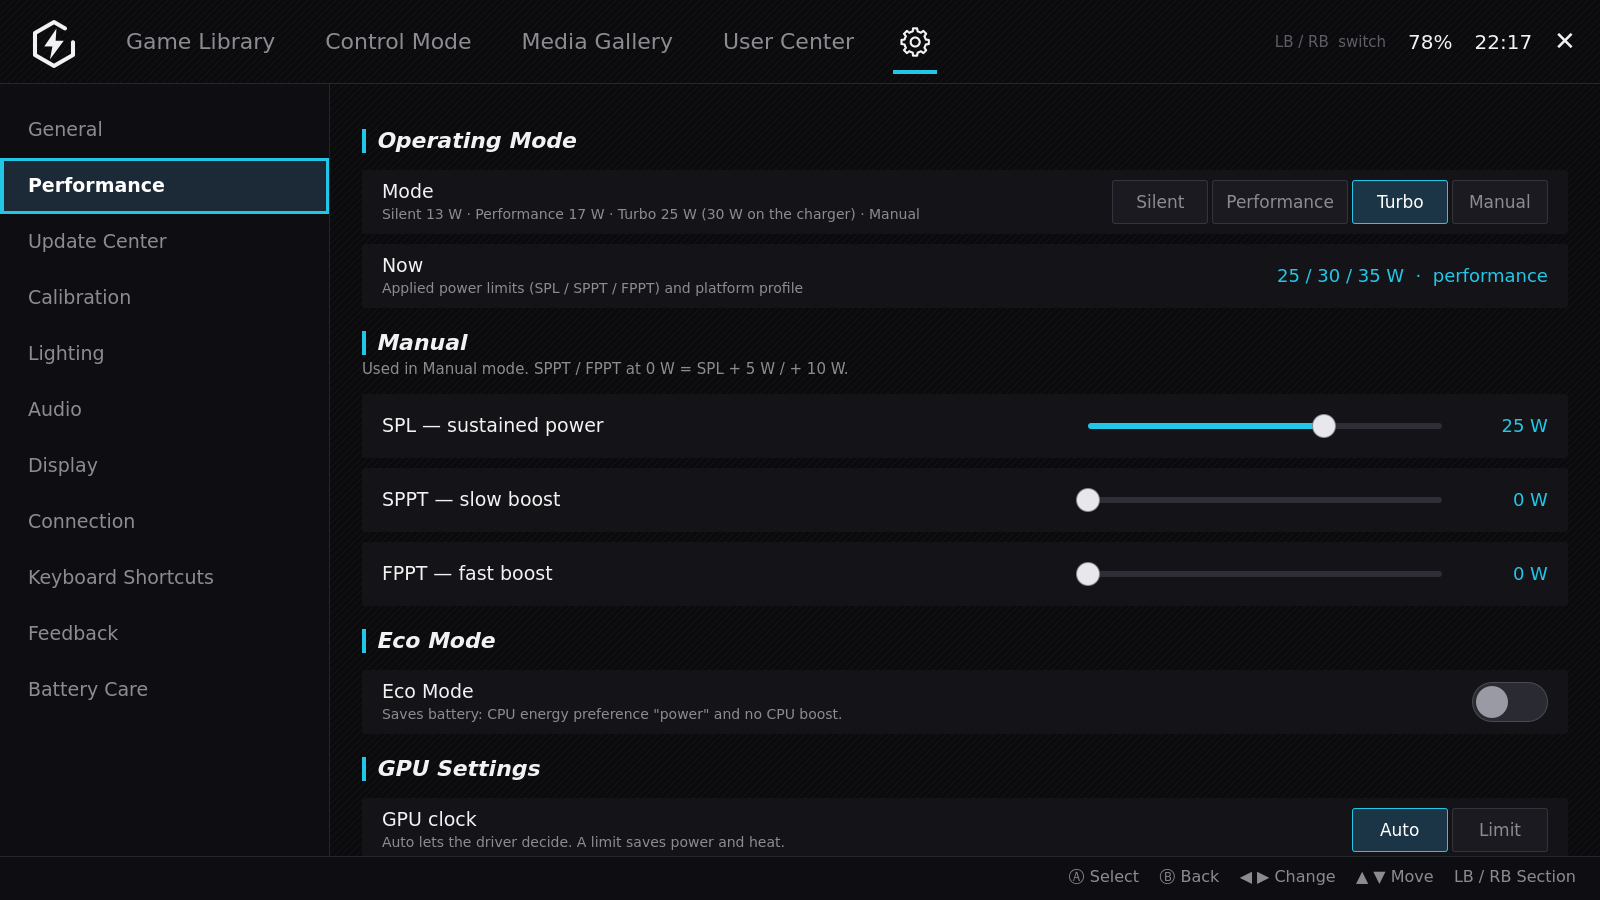
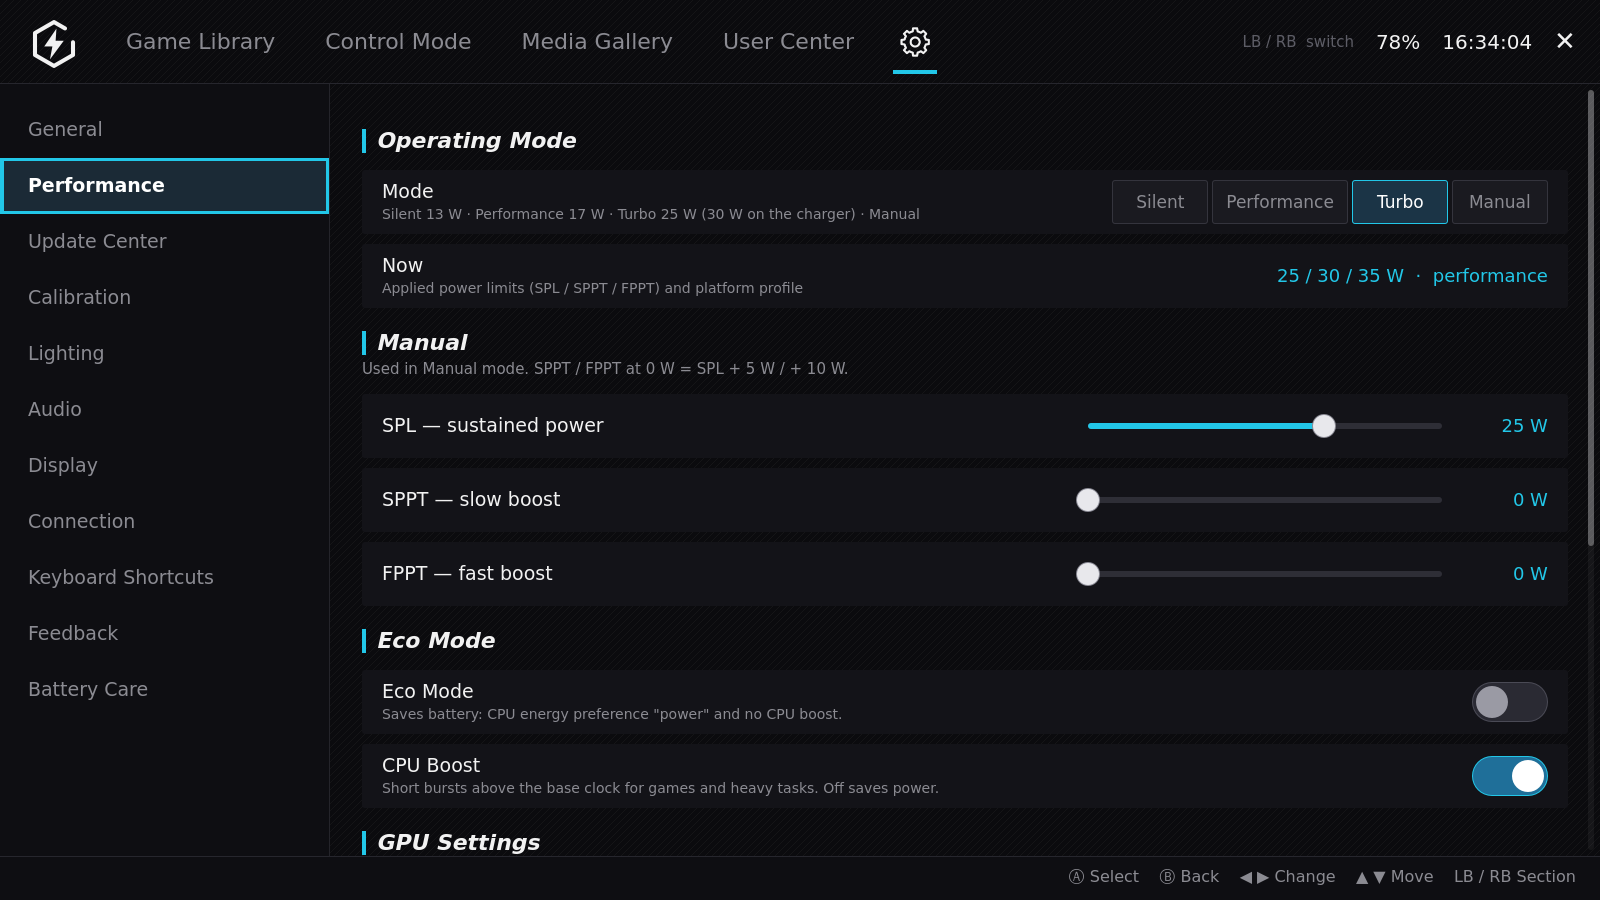
1.6.1: GPU memory on Linux, key map screenshots, Linux fixes (#18)
* Key map screenshots; Memory Assigned to GPU on Linux (asus-armoury apu_mem)

- README: Control Mode key map screenshots (front, top, back) in test mode,
  made by tools/screenshots/capture.sh with scripted pad input (the fake
  daemon now passes on press / release / axes events). They replace the
  old key list screenshot.
- Linux: Memory Assigned to GPU reads and writes the BIOS UMA size through
  asus-armoury's apu_mem firmware attribute (GB, 0 = Auto), applied at the
  next boot, like on Windows.

Claude-Session: https://claude.ai/code/session_01CU8GXFKPb2ZWBnBQyUYxJT

* 1.6.1: Linux fixes (charger, board name, Steam paths), docs

- Charging state from any mains power supply, not only AC0
- Device Info board name on Linux (/sys/class/dmi/id/board_name)
- Game Library: Steam in ~/.steam/steam and the Flatpak
- README: Windows feature notes up to date with 1.6; CHANGELOG 1.6.1

Claude-Session: https://claude.ai/code/session_01CU8GXFKPb2ZWBnBQyUYxJT

---------

diff --git a/qml/app/SetPerformance.qml b/qml/app/SetPerformance.qml
@@ -45,7 +45,8 @@ CcPage {
                    onToggled: (v) => device.setValue("cpuBoost", v) } }
 
     CcSection { title: qsTr("GPU Settings") }
-    // Memory Assigned to GPU (UMA frame buffer): Windows only, the daemon reports it when the firmware has it
+    // Memory Assigned to GPU (UMA frame buffer): the daemon reports it when the firmware has it
+    // (Windows: ASUS WMI; Linux: asus-armoury apu_mem)
     readonly property bool gpuMemShown: (device.rev, !!device.value("gpuMemSupported"))
     function gpuMemOptions() {
         const mbs = device.value("gpuMemOptions") || []
@@ -59,7 +60,8 @@ CcPage {
                    current: (device.rev, device.value("gpuMemory"))
                    onPicked: (v) => device.setValue("gpuMemory", v) } }
     CcRow { title: qsTr("Restart required"); visible: page.gpuMemShown && (device.rev, !!device.value("gpuMemPending"))
-            description: qsTr("Restart Windows to apply the new GPU memory size.") }
+            description: Qt.platform.os === "windows" ? qsTr("Restart Windows to apply the new GPU memory size.")
+                                                      : qsTr("Restart the Ally to apply the new GPU memory size.") }
 
     CcRow { visible: !desktop.windows; title: qsTr("GPU clock"); description: qsTr("Auto lets the driver decide. A limit saves power and heat.")
         CcChoice { enabledChoice: device.connected

diff --git a/daemon/Hardware.cpp b/daemon/Hardware.cpp
@@ -5,8 +5,10 @@
 #include <QDir>
 #include <QFile>
 #include <QJsonArray>
+#include <QRegularExpression>
 #include <QThread>
 
+#include <algorithm>
 #include <cerrno>
 #include <cstring>
 #include <fcntl.h>
@@ -265,14 +267,49 @@ QString gpuDevice()
 }
 } // namespace
 
+// Memory reserved for the GPU (UMA frame buffer): the BIOS setting behind asus-armoury's apu_mem
+// (kernel 6.19+ or the CachyOS / Bazzite kernels). Values are GB, 0 = Auto (the BIOS default);
+// the change applies at the next boot.
+namespace {
+const QString kApuMem = QString(kArmoury) + "apu_mem/";
+
+QList<int> apuMemValues()
+{
+    QList<int> gb;
+    for (const QString &v : readFile(kApuMem + "possible_values").split(QRegularExpression("[;,\\s]+"), Qt::SkipEmptyParts)) {
+        bool ok = false;
+        const int n = v.toInt(&ok);
+        if (ok && n >= 0 && !gb.contains(n))
+            gb << n;
+    }
+    if (gb.isEmpty()) { // older drivers: a range only
+        const int lo = attr("apu_mem", "min_value"), hi = attr("apu_mem", "max_value");
+        for (int n = lo; hi > 0 && n <= hi && n <= 64; ++n)
+            gb << n;
+    }
+    std::sort(gb.begin(), gb.end());
+    return gb;
+}
+} // namespace
+
 QJsonObject gpuMemory()
 {
-    return {{"gpuMemSupported", false}, {"gpuMemCurrent", 0}, {"gpuMemOptions", QJsonArray()}};
+    bool ok = false;
+    const int cur = readFile(kApuMem + "current_value").toInt(&ok);
+    const QList<int> gb = apuMemValues();
+    if (!ok || gb.size() < 2)
+        return {{"gpuMemSupported", false}, {"gpuMemCurrent", 0}, {"gpuMemOptions", QJsonArray()}};
+    QJsonArray opts;
+    for (int n : gb)
+        opts.append(n * 1024);
+    return {{"gpuMemSupported", true}, {"gpuMemCurrent", cur * 1024}, {"gpuMemOptions", opts}};
 }
 
-bool applyGpuMemory(int)
+bool applyGpuMemory(int mb)
 {
-    return false; // Windows only
+    if (mb < 0 || mb % 1024 || !apuMemValues().contains(mb / 1024))
+        return false;
+    return writeFile(kApuMem + "current_value", QString::number(mb / 1024));
 }
 
 bool applyCpu(bool eco, const QString &opmode, bool boost)

diff --git a/tools/screenshots/fake_daemon.py b/tools/screenshots/fake_daemon.py
@@ -2,7 +2,8 @@
 import json, os, socket, sys, threading
 path = sys.argv[1]
 state = {"opmode": "turbo", "tdp": 25, "tdpSlow": 0, "tdpFast": 0, "fan": "auto", "charge": 80,
-         "eco": False, "cpuBoost": True, "gpuMemSupported": False, "gpuClock": 0, "lighting": "static", "lightColor": "#ff2d55",
+         "eco": False, "cpuBoost": True, "gpuMemSupported": True, "gpuMemCurrent": 4096,
+         "gpuMemOptions": [0, 1024, 2048, 3072, 4096, 6144, 8192], "gpuMemory": 4096, "gpuClock": 0, "lighting": "static", "lightColor": "#ff2d55",
          "lightBrightness": 3, "lightSpeed": "medium", "bootSound": True, "mcuPowersave": False,
          "ac": False, "spl": 25, "sppt": 30, "fppt": 35, "profile": "performance",
          "tdpMin": 5, "tdpMax": 35, "gpuMin": 800, "gpuMax": 2900,
@@ -12,7 +13,8 @@ state = {"opmode": "turbo", "tdp": 25, "tdpSlow": 0, "tdpFast": 0, "fan": "auto"
 state.update(json.loads(os.environ.get("XPANEL_FAKE_STATE", "{}")))
 if os.path.exists(path): os.unlink(path)
 srv = socket.socket(socket.AF_UNIX); srv.bind(path); srv.listen(8)
-clients = []  # a request {"event": "nav", "name": "down"} is passed on to the other clients (scripted gamepad input)
+clients = []  # a request {"event": "nav", "name": "down"} is passed on to the other clients (scripted gamepad input:
+             # nav, press / release with a name, axes with lx ly rx ry lt rt)
 def line(): return (json.dumps({"state": state}) + "\n").encode()
 def serve(c):
     f = c.makefile("rb")
@@ -22,7 +24,7 @@ def serve(c):
         if "event" in req:
             for o in list(clients):
                 if o is not c:
-                    try: o.sendall(json.dumps({"event": req["event"], "name": req.get("name", "")}).encode() + b"\n")
+                    try: o.sendall(json.dumps({"name": "", **req}).encode() + b"\n")
                     except Exception: pass
             continue
         state.update({k: v for k, v in req.get("set", {}).items() if k != "control"})

diff --git a/src/SystemControl.cpp b/src/SystemControl.cpp
@@ -763,7 +763,15 @@ void SystemControl::readBattery()
 #else
     const int cap = readFile("/sys/class/power_supply/BAT0/capacity").toInt();
     const QString st = readFile("/sys/class/power_supply/BAT0/status");
-    const bool chg = st == "Charging" || st == "Full" || readFile("/sys/class/power_supply/AC0/online") == "1";
+    // on the charger: any mains supply (the Ally's is not always called AC0), as the daemon checks it
+    bool ac = false;
+    const QDir ps("/sys/class/power_supply");
+    for (const QString &e : ps.entryList(QDir::Dirs | QDir::NoDotAndDotDot))
+        if (readFile(ps.absoluteFilePath(e) + "/type") == "Mains" && readFile(ps.absoluteFilePath(e) + "/online") == "1") {
+            ac = true;
+            break;
+        }
+    const bool chg = st == "Charging" || st == "Full" || ac;
     if (cap != m_battery || chg != m_charging) {
         m_battery = cap;
         m_charging = chg;

diff --git a/src/GameLibrary.cpp b/src/GameLibrary.cpp
@@ -42,7 +42,13 @@ static QString steamRoot()
         p = "C:/Program Files (x86)/Steam";
     return QDir::cleanPath(QDir::fromNativeSeparators(p));
 #else
-    return QDir::homePath() + "/.local/share/Steam";
+    // native, the ~/.steam/steam link of Debian / Ubuntu packages, Flatpak
+    const QString home = QDir::homePath();
+    for (const QString &p : {home + "/.local/share/Steam", home + "/.steam/steam",
+                             home + "/.var/app/com.valvesoftware.Steam/.local/share/Steam"})
+        if (QFile::exists(p + "/steamapps"))
+            return QFileInfo(p).canonicalFilePath();
+    return home + "/.local/share/Steam";
 #endif
 }
 

diff --git a/src/DeviceInfo.cpp b/src/DeviceInfo.cpp
@@ -138,6 +138,7 @@ QVariantMap DeviceInfo::info() const
     m["serial"] = smbiosSerial();
 #else
     m["model"] = readFile("/sys/class/dmi/id/product_name");
+    m["board"] = readFile("/sys/class/dmi/id/board_name");
     m["vendor"] = readFile("/sys/class/dmi/id/sys_vendor");
     m["bios"] = readFile("/sys/class/dmi/id/bios_version");
     m["biosDate"] = readFile("/sys/class/dmi/id/bios_date");

diff --git a/README.md b/README.md
@@ -78,10 +78,14 @@ familiar Armoury Crate layout to the Linux desktop as one app:
 <table>
   <tr>
     <td width="50%"><img src="docs/screenshots/game-library.png" alt="Game Library"><br><b>Game Library</b> — Steam and installed apps, per-game Operating Mode, TDP and controls</td>
-    <td width="50%"><img src="docs/screenshots/performance.png" alt="Performance settings"><br><b>Performance</b> — Operating Mode, live applied limits, manual SPL / SPPT / FPPT, Eco Mode, GPU clock</td>
+    <td width="50%"><img src="docs/screenshots/performance.png" alt="Performance settings"><br><b>Performance</b> — Operating Mode, live applied limits, manual SPL / SPPT / FPPT, Eco Mode, CPU Boost, GPU clock and memory</td>
   </tr>
   <tr>
-    <td><img src="docs/screenshots/control-mode.png" alt="Control Mode"><br><b>Control Mode</b> — Gamepad / Desktop presets, key mapping with paddle-held secondary functions</td>
+    <td><img src="docs/screenshots/control-map-front.png" alt="Control Mode, key map front"><br><b>Control Mode</b> — key map, front: test mode shows held buttons (X + A) and both sticks; the side panel assigns the selected button</td>
+    <td><img src="docs/screenshots/control-map-top.png" alt="Control Mode, key map top"><br><b>Key map, top edge</b> — bumpers and triggers; the trigger fills as you pull it (LT a third, RT most of the way)</td>
+  </tr>
+  <tr>
+    <td><img src="docs/screenshots/control-map-back.png" alt="Control Mode, key map back"><br><b>Key map, back</b> — the rear paddles (as held), primary and paddle-held second functions</td>
     <td><img src="docs/screenshots/lighting.png" alt="Lighting"><br><b>Lighting</b> — Aura effects (also dual breathing, strobe, battery level, follow Operating Mode), colors and brightness</td>
   </tr>
   <tr>
@@ -90,7 +94,7 @@ familiar Armoury Crate layout to the Linux desktop as one app:
   </tr>
   <tr>
     <td><img src="docs/screenshots/fan-curve.png" alt="Fan curve editor"><br><b>Fan Curve</b> — 8-point custom curve, editable by touch or gamepad, separate GPU curve</td>
-    <td><img src="docs/screenshots/update-center.png" alt="Update Center"><br><b>Update Center</b> — system packages, device firmware (fwupd) and the Ally X BIOS from ASUS</td>
+    <td><img src="docs/screenshots/update-center.png" alt="Update Center"><br><b>Update Center</b> — XPanel itself (GitHub releases), system packages, device firmware (fwupd) and the Ally X BIOS from ASUS</td>
   </tr>
 </table>
 
@@ -188,9 +192,9 @@ logind brightness, `xdg-open` and `x-terminal-emulator`, no KDE-only controls.
 </details>
 
 **Windows 10 / 11 x64 (experimental):** Operating Mode / TDP, fan, charge limit, Aura lighting
-and boot sound through the ASUS System Control Interface (installed on every Ally). Controller
-remapping, the Ally-button panel, brightness / volume sliders and the Linux-only tiles are not
-available on Windows yet. There is **no 32-bit build**: the Ally is a 64-bit device.
+and boot sound through the ASUS System Control Interface (installed on every Ally). Since 1.6
+also controller remapping (programmed into the Ally's controller), gyro, the Ally buttons, system
+tiles, brightness and volume, the Update Center for ASUS BIOS / firmware / drivers. There is **no 32-bit build**: the Ally is a 64-bit device.
 
 ## Install
 
@@ -400,7 +404,7 @@ See the top of `daemon/main.cpp` for all keys.
 
 **Does it work on Windows?** Partly, and experimentally: the installer sets Operating Mode / TDP,
 fan (including a custom curve), charge limit, lighting and boot sound the way Armoury Crate does.
-Controller remapping, gyro and the Ally buttons are Linux-only for now. XPanel is made first for Linux, where there is no
+Since 1.6 also controller remapping, gyro, the Ally buttons and the system tiles. XPanel is made first for Linux, where there is no
 Armoury Crate.
 
 **Does it conflict with Handheld Daemon (hhd), InputPlumber or Decky TDP plugins?** Yes, they

diff --git a/CHANGELOG.md b/CHANGELOG.md
@@ -1,5 +1,16 @@
 # Changelog
 
+## 1.6.1
+
+- **Memory Assigned to GPU on Linux.** Settings › Performance › GPU Settings now also works on
+  Linux. It reads and writes the BIOS UMA size through the `asus-armoury` kernel driver's `apu_mem`
+  attribute (Auto, 1 to 8 GB on the Ally X) and applies it at the next boot, as on Windows. It needs a
+  kernel with `asus-armoury` (6.19+, or CachyOS / Bazzite kernels); without it the row stays hidden.
+- **Linux fixes.** The charging state follows any mains supply, not only one named `AC0`. Device Info
+  shows the board name. The Game Library also finds Steam in `~/.steam/steam` and the Flatpak.
+- **Docs.** README screenshots of the Control Mode key map (front, top and back) in test mode, made by
+  `tools/screenshots/capture.sh` with scripted pad input. The Windows notes are up to date with 1.6.
+
 ## 1.6.0
 
 Windows catches up with Linux: tested on a ROG Ally X with Windows 11 24H2.
